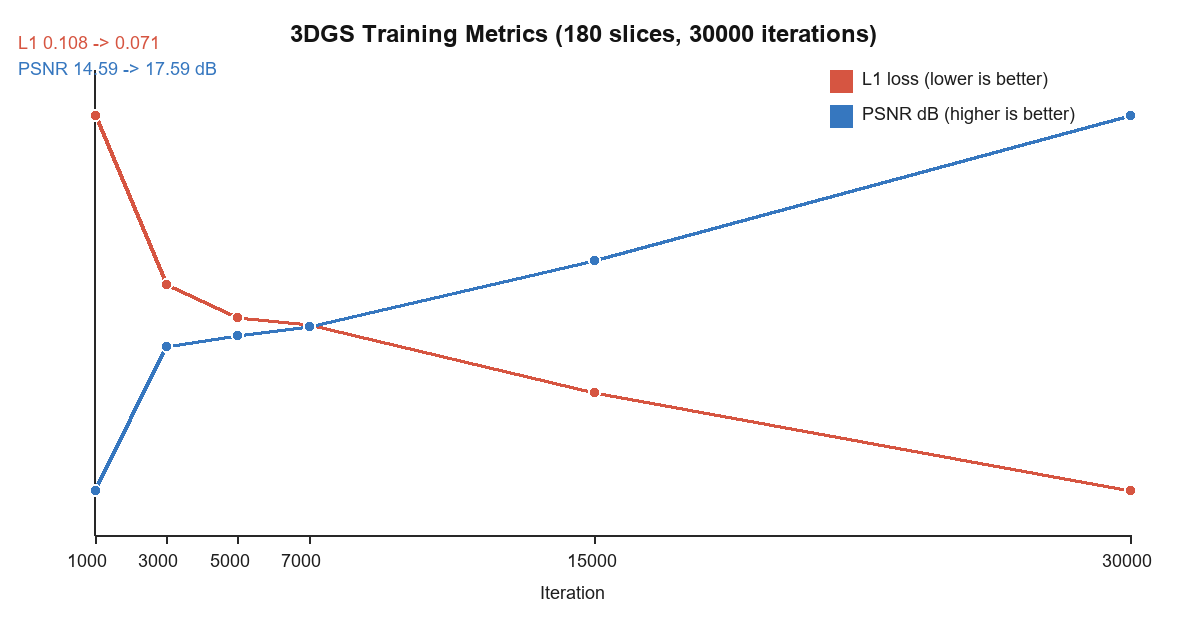
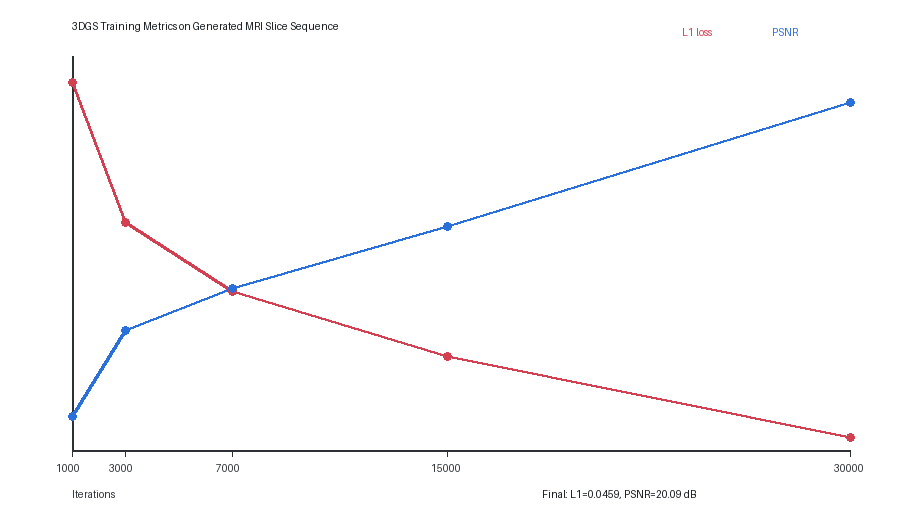
Update thesis with latest model and system results

diff --git a/sections/abstract_cn.tex b/sections/abstract_cn.tex
@@ -3,7 +3,7 @@
 \markboth{成都信息工程大学学士学位论文}{成都信息工程大学学士学位论文}
 
 {\songti\fontsize{12pt}{20pt}\selectfont
-真实 MRI 数据受采集成本、隐私保护和伦理审查等因素限制，单张二维切片也难以完整呈现脑部结构的空间关系。基于这一现实问题，本文设计并实现了一套基于 3DGS 与 StyleGAN2 的 MRI 医学图像拟生成平台。平台将 NIfTI 数据预处理、二维切片生成、连续序列组织、点云初始化、3DGS 训练与重建和交互展示串联为一条相对完整的实验链路。实验以 IXI 脑部 MRI 数据为基础，完成体数据切片、灰度归一化、分辨率统一、低信息切片过滤和 StyleGAN2-ADA 训练集构建，并训练得到可接入平台推理的二维 MRI 切片生成模型。三维部分选取 180 张连续 MRI 切片作为监督图像，以 300000 点初始点云作为空间起点，经过 30000 轮 3DGS 训练后得到包含 572073 个高斯点的三维表达结果。工程实现采用 FastAPI + React 架构，后端提供数据、生成、分析、任务和三维资产接口，前端承担仪表盘、生成工作台、医学影像查看器、影像分析报告、可信性评估、点云展示和 AI 助手等交互功能。实验结果显示，训练后的 StyleGAN2 权重能够生成具有脑部 MRI 灰度轮廓的二维切片；3DGS 在第 30000 轮训练时达到 L1 为 0.0709、PSNR 为 17.5894 dB，180 对渲染切片与参考切片的平均全局 SSIM 为 0.8935。结合训练日志、模型权重和渲染输出可以看出，平台已经形成从 MRI 数据整理到二维生成、再到三维高斯表达的可复现实验流程。
+真实 MRI 数据受采集成本、隐私保护和伦理审查等因素限制，单张二维切片也难以完整呈现脑部结构的空间关系。基于这一现实问题，本文设计并实现了一套基于 3DGS 与 StyleGAN2 的 MRI 医学图像拟生成平台。平台将 NIfTI 数据预处理、二维切片生成、连续序列组织、点云初始化、3DGS 训练与重建和交互展示串联为一条相对完整的实验链路。实验以 IXI 脑部 MRI 数据为基础，完成体数据切片、灰度归一化、分辨率统一、低信息切片过滤和 StyleGAN2-ADA 训练集构建，并训练得到可接入平台推理的二维 MRI 切片生成模型。三维部分选取 180 张连续 MRI 切片作为监督图像，以 300000 点初始点云作为空间起点，经过 30000 轮 3DGS 训练后得到包含 556424 个高斯点的三维表达结果，并导出 60000 点预览点云用于前端交互展示。工程实现采用 FastAPI + React 架构，后端提供数据、生成、分析、任务和三维资产接口，前端承担仪表盘、生成工作台、医学影像查看器、影像分析报告、可信性评估、点云展示和 AI 助手等交互功能。实验结果显示，训练后的 StyleGAN2 权重能够生成具有脑部 MRI 灰度轮廓的二维切片；3DGS 在第 30000 轮训练时达到 L1 为 0.0459、PSNR 为 20.0909 dB。结合训练日志、模型权重、渲染切片、指标曲线和前端展示资产可以看出，平台已经形成从 MRI 数据整理到二维生成、再到三维高斯表达的可复现实验流程。
 \par}
 
 \vspace{1em}

diff --git a/sections/abstract_en.tex b/sections/abstract_en.tex
@@ -4,7 +4,7 @@
 
 {\tnr\fontsize{12pt}{20pt}\selectfont\justifying\hbadness=10000
 \begin{sloppypar}
-Real MRI data is difficult to obtain at scale because of acquisition cost, privacy protection, and ethical review. A single two-dimensional slice also gives only limited insight into the spatial structure of the brain. Based on this practical problem, this thesis designs and implements an MRI medical image pseudo-generation platform built on 3DGS and StyleGAN2. The platform links NIfTI preprocessing, MRI slice generation, continuous sequence construction, point cloud initialization, 3DGS training, and interactive visualization into one experimental workflow. The IXI brain MRI dataset is used as the data source. The preprocessing stage includes volume slicing, intensity normalization, resolution standardization, low-information slice filtering, and StyleGAN2-ADA dataset construction. A two-dimensional MRI slice generator is then trained and connected to the platform for inference. In the three-dimensional stage, 180 continuous MRI slices are used as supervision, and a 300000-point initial point cloud serves as the spatial starting point. After 30000 iterations of 3DGS training, the system obtains a representation with 572073 Gaussian points. The engineering platform uses a FastAPI and React architecture. The backend manages data, generation, analysis, task, and 3D asset APIs, while the frontend provides the dashboard, generation workbench, medical image viewer, image analysis report, trust evaluation, point cloud display, and AI assistant. Experimental records show that the trained StyleGAN2 model can generate MRI-like slices with recognizable brain grayscale structures. At iteration 30000, 3DGS training reaches an L1 loss of 0.0709 and a PSNR of 17.5894 dB. The mean global SSIM over 180 rendered-reference slice pairs is 0.8935. Project logs, model snapshots, and rendered outputs together show that the platform provides a reproducible workflow from MRI data processing to two-dimensional generation and three-dimensional Gaussian representation.
+Real MRI data is difficult to obtain at scale because of acquisition cost, privacy protection, and ethical review. A single two-dimensional slice also gives only limited insight into the spatial structure of the brain. Based on this practical problem, this thesis designs and implements an MRI medical image pseudo-generation platform built on 3DGS and StyleGAN2. The platform links NIfTI preprocessing, MRI slice generation, continuous sequence construction, point cloud initialization, 3DGS training, and interactive visualization into one experimental workflow. The IXI brain MRI dataset is used as the data source. The preprocessing stage includes volume slicing, intensity normalization, resolution standardization, low-information slice filtering, and StyleGAN2-ADA dataset construction. A two-dimensional MRI slice generator is then trained and connected to the platform for inference. In the three-dimensional stage, 180 continuous MRI slices are used as supervision, and a 300000-point initial point cloud serves as the spatial starting point. After 30000 iterations of 3DGS training, the system obtains a representation with 556424 Gaussian points, and a 60000-point preview cloud is exported for frontend interaction. The engineering platform uses a FastAPI and React architecture. The backend manages data, generation, analysis, task, and 3D asset APIs, while the frontend provides the dashboard, generation workbench, medical image viewer, image analysis report, trust evaluation, point cloud display, and AI assistant. Experimental records show that the trained StyleGAN2 model can generate MRI-like slices with recognizable brain grayscale structures. At iteration 30000, 3DGS training reaches an L1 loss of 0.0459 and a PSNR of 20.0909 dB. Project logs, model snapshots, rendered slices, metric curves, and frontend display assets together show that the platform provides a reproducible workflow from MRI data processing to two-dimensional generation and three-dimensional Gaussian representation.
 \end{sloppypar}
 \par}
 

diff --git a/sections/appendix.tex b/sections/appendix.tex
@@ -12,4 +12,4 @@
 
 StyleGAN2 相关训练配置和日志保存在主训练运行目录中。训练配置文件记录训练数据、分辨率、batch size、学习率和 ADA 参数。日志文件保存训练过程输出。可加载模型权重、训练样本网格和生成切片样例分别位于训练结果目录与生成结果目录。这些文件可用于复核第 6 章中的二维生成实验。
 
-三维重建结果包括初始点云文件、3DGS 训练目录和平台展示材料。初始点云文件 \thesispath{init_point_cloud.ply} 包含 477426 个顶点。复核样例包含 31980 个顶点。3DGS 主训练结果位于 \thesispath{results/3dgs_runs} 下的 \texttt{mri\_180slices\_...} 目录。该目录包含 180 个相机参数、30000 轮训练日志、\thesispath{chkpnt30000.pth}、第 30000 轮输出点云以及 180 对渲染切片和参考切片。论文使用的 3DGS 指标曲线和切片对比图保存在 \thesispath{figures/3dgs_metrics_30000.png} 与 \thesispath{figures/3dgs_slice_comparison_30000.png} 中。上述材料共同支撑第 5 章系统实现和第 6 章测试分析中的主要结论。
+三维重建结果包括初始点云文件、3DGS 训练目录和平台展示材料。初始点云文件 \thesispath{init_point_cloud.ply} 包含 477426 个顶点。复核样例包含 31980 个顶点。3DGS 主训练结果位于 \thesispath{results/3dgs_runs/mri_bestcand80_200k_30000_20260428_081347} 目录。该目录包含 180 个相机参数、30000 轮训练日志、\thesispath{chkpnt30000.pth}、第 30000 轮输出点云以及渲染切片和参考切片。最新前端展示资产保存在 \thesispath{results/3dgs_frontend} 中，其中 \thesispath{summary.json} 记录最终 L1 为 0.0459、PSNR 为 20.0909 dB，\thesispath{mri_3dgs_preview_60k.ply} 包含 60000 个预览点。论文使用的 3DGS 指标曲线和切片对比图保存在 \thesispath{figures/3dgs_metrics_30000.png} 与 \thesispath{figures/3dgs_slice_comparison_30000.png} 中。上述材料共同支撑第 5 章系统实现和第 6 章测试分析中的主要结论。

diff --git a/sections/chapter7.tex b/sections/chapter7.tex
@@ -7,7 +7,7 @@
 
 本文的创新点主要体现在工程集成和医学图像生成流程适配上。第一，论文将 StyleGAN2 的二维切片生成能力与 3DGS 的三维高斯表达思路结合起来，形成“二维生成结果到三维表达”的平台化流程。第二，论文针对 MRI 切片序列具有规则层间关系这一特点，设计了由连续切片生成初始点云并组织 3DGS 输入的实现方法。第三，论文将训练、推理、结果管理和可视化统一到 FastAPI + React 平台中，使算法结果不再只停留在命令行和离线文件，而能够通过交互界面进行展示和分析。
 
-实验与测试结果表明，平台具备较完整的教学演示和实验复现能力。StyleGAN2 训练链路已经形成可加载权重，平台能够基于该权重生成 MRI 切片。3DGS 部分能够在连续切片监督下完成训练，并输出三维高斯模型、渲染结果和训练指标。第 30000 轮训练达到 L1 为 0.0709、PSNR 为 17.5894 dB，180 对渲染切片与参考切片的平均全局 SSIM 为 0.8935。上述结果说明，本文构建的平台能够把二维生成、三维表达和结果展示连接起来，具有一定的工程应用价值和教学演示价值。
+实验与测试结果表明，平台具备较完整的教学演示和实验复现能力。StyleGAN2 训练链路已经形成可加载权重，平台能够基于该权重生成 MRI 切片。3DGS 部分能够在连续切片监督下完成训练，并输出三维高斯模型、渲染结果和训练指标。第 30000 轮训练达到 L1 为 0.0459、PSNR 为 20.0909 dB，完整点云包含 556424 个高斯点，前端预览点云包含 60000 个点。上述结果说明，本文构建的平台能够把二维生成、三维表达和结果展示连接起来，具有一定的工程应用价值和教学演示价值。
 
 需要说明的是，StyleGAN2、StyleGAN2-ADA 和 3D Gaussian Splatting 的基础理论与核心模型来自已有公开研究，本文不将这些基础算法本身作为原创贡献。本文的本人研究工作主要集中在 MRI 数据处理流程设计、生成模型训练与推理接入、连续切片到点云和 3DGS 输入的工程适配、前后端平台实现，以及实验结果的整理与分析。这样的边界划分有助于明确本文贡献，也避免将已有科研成果误认为本文原创成果。
 